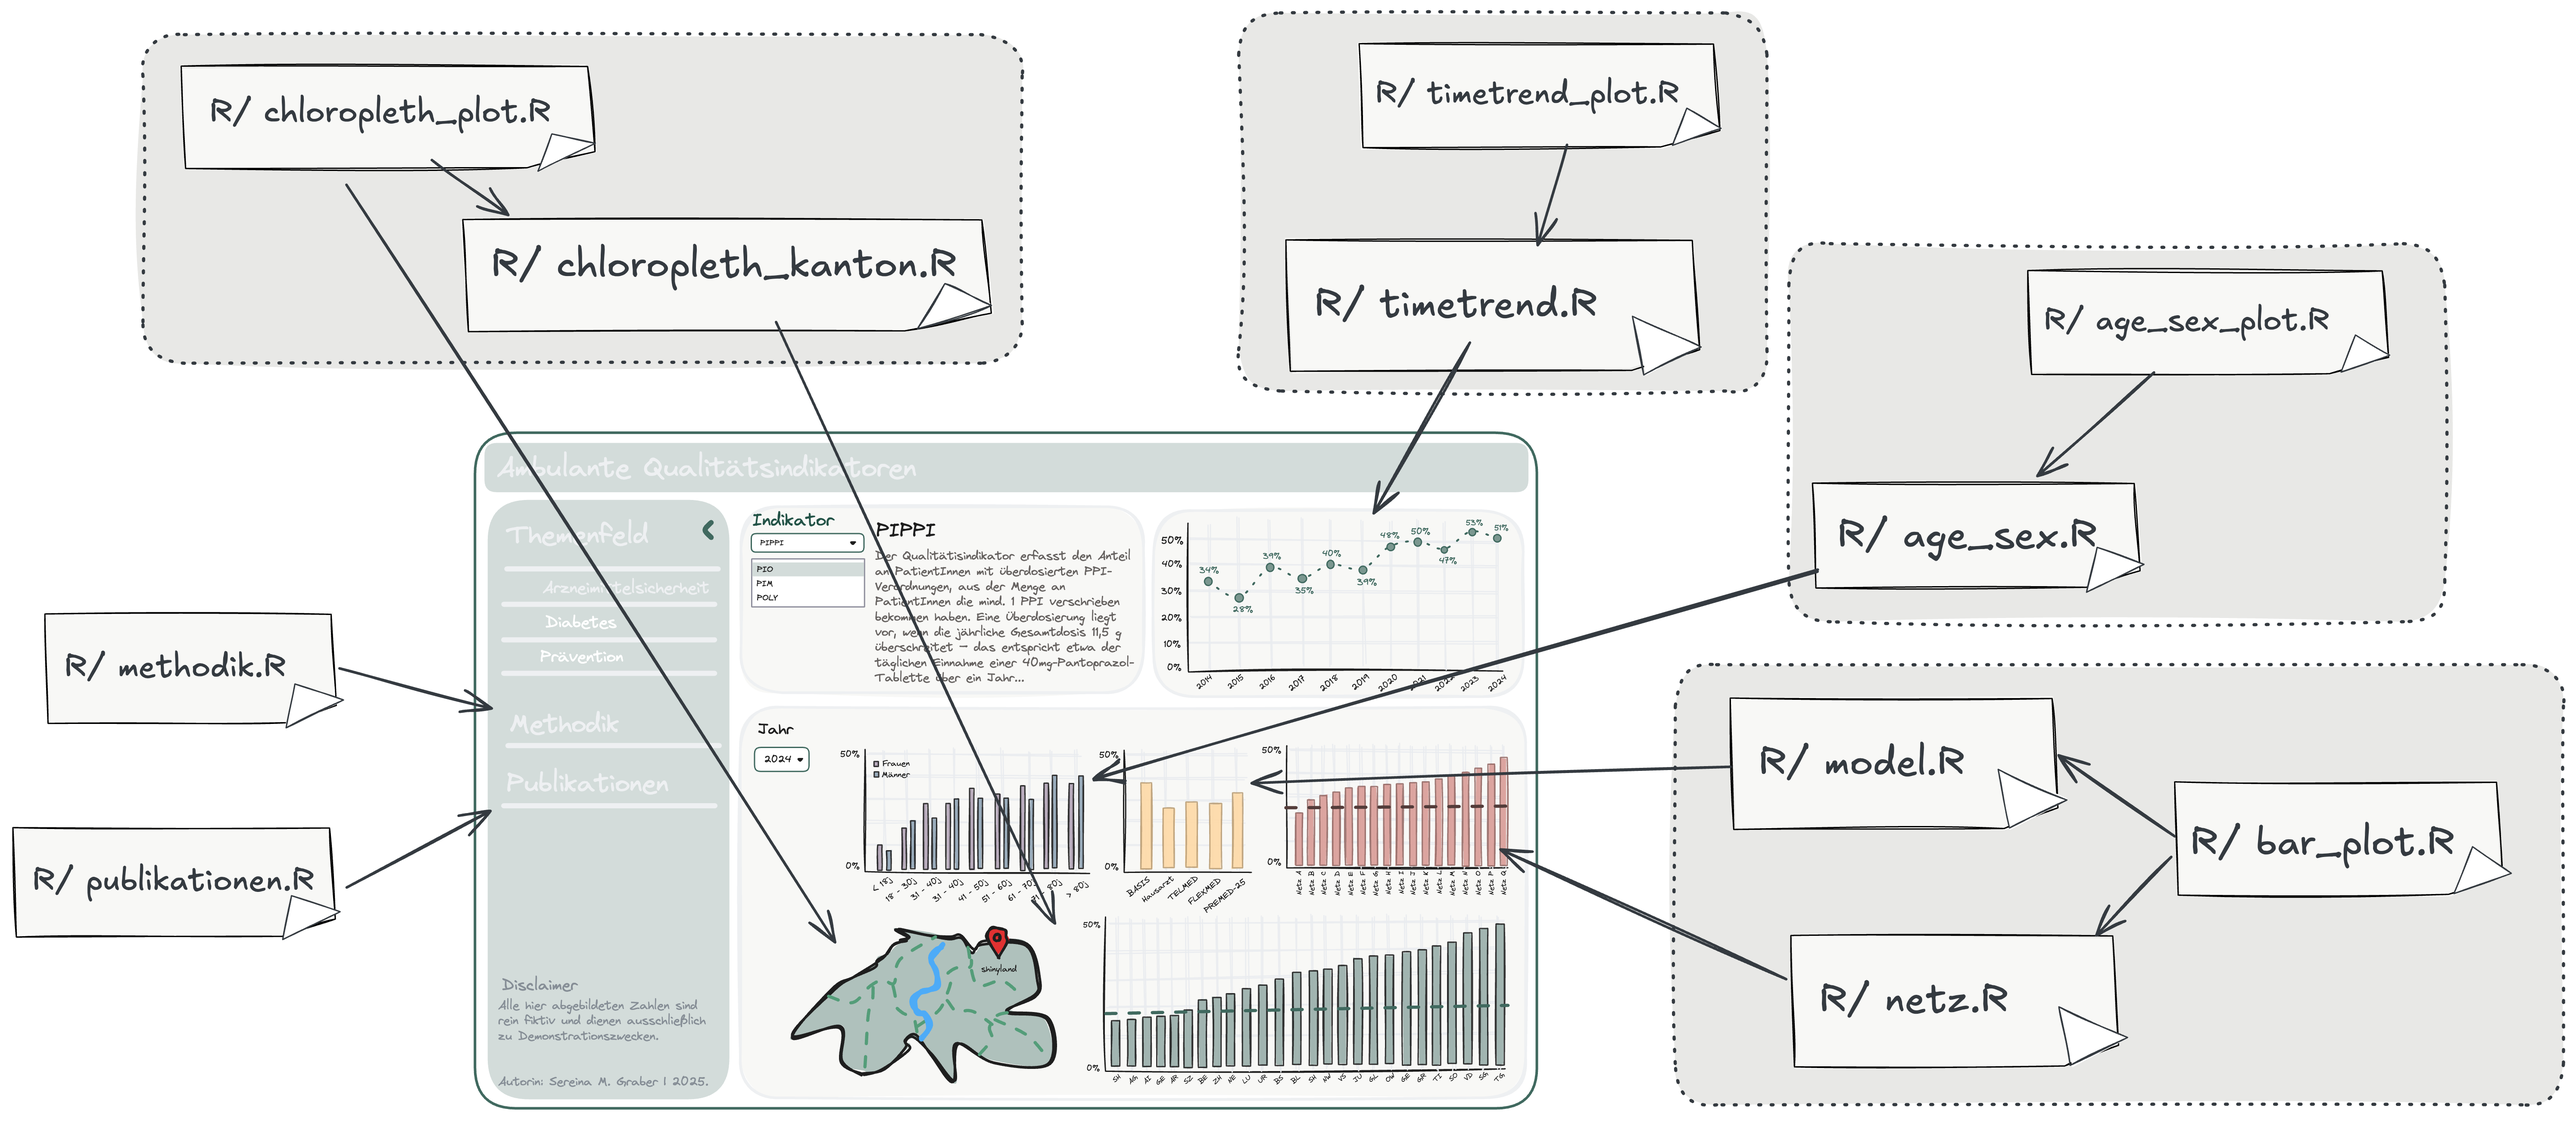
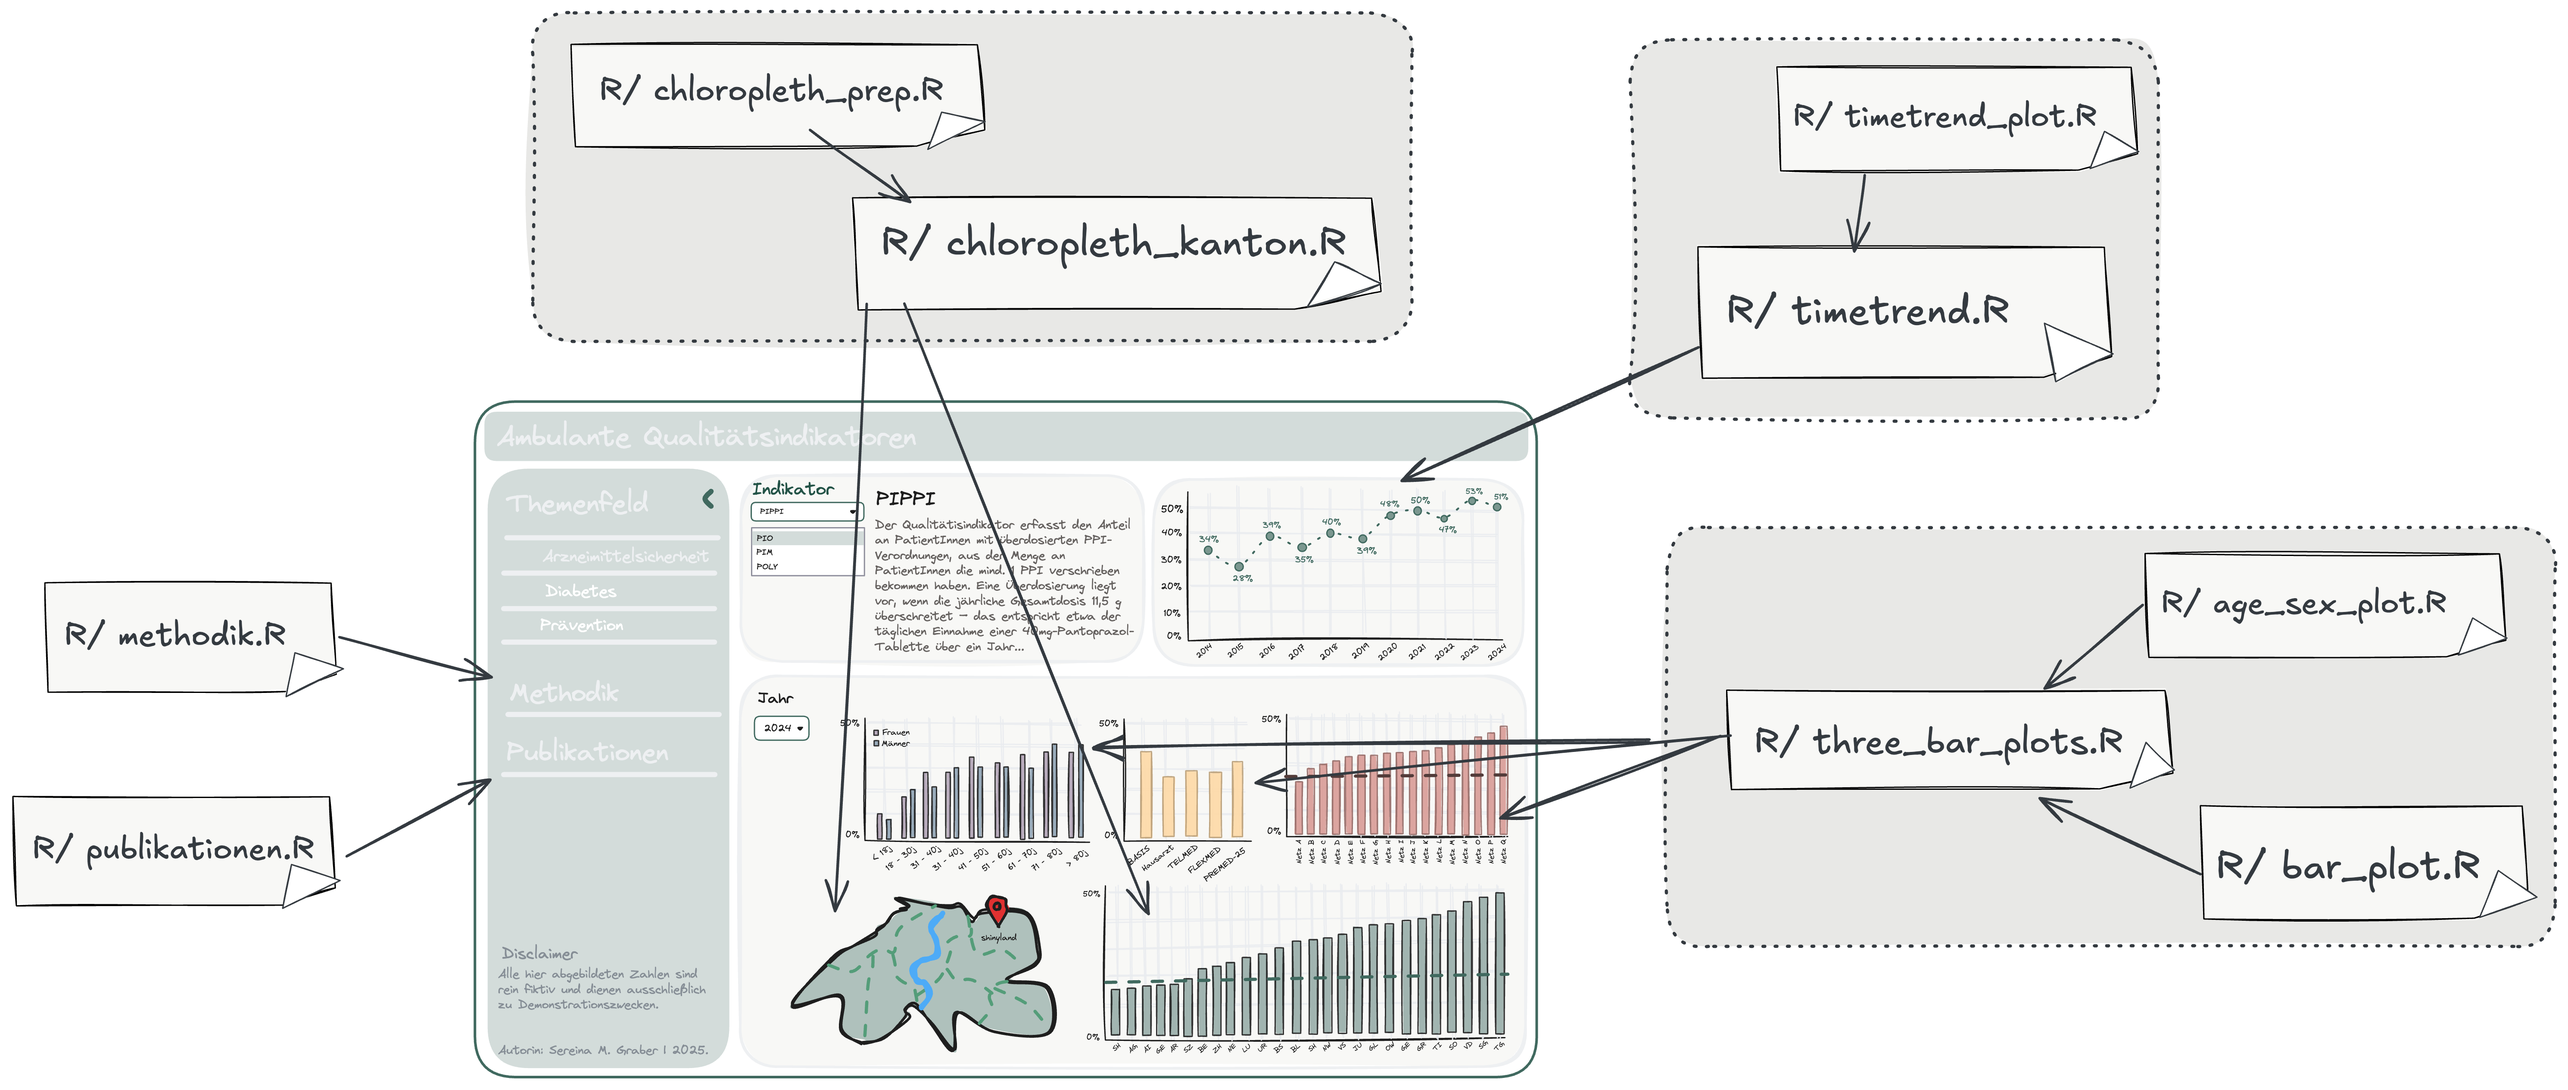
adjusted architecture of 3 barplots in 2nd row. Harmonized hover boxes.

Changed region(s): [[0.0, 0.0, 0.9987, 0.9988], [0.1872, 0.874, 0.2809, 0.9988]]

diff --git a/www/custom.css b/www/custom.css
@@ -1,4 +1,6 @@
 
+@import url("https://fonts.googleapis.com/css?family=Open+Sans");
+
 /* ============================ COLOR DEFINITIONS ============================*/
 
 :root {

diff --git a/README.md b/README.md
@@ -1,6 +1,8 @@
 
 # Shiny Dashboard Skeleton
 
+Application available here (all numbers shown are purely fictional and serve exclusively for demonstration purposes):
+https://l9s1fy-sereina-graber.shinyapps.io/14_quality_dashboard/
 <!-- badges: start -->
 <!-- badges: end -->
 ### Background
